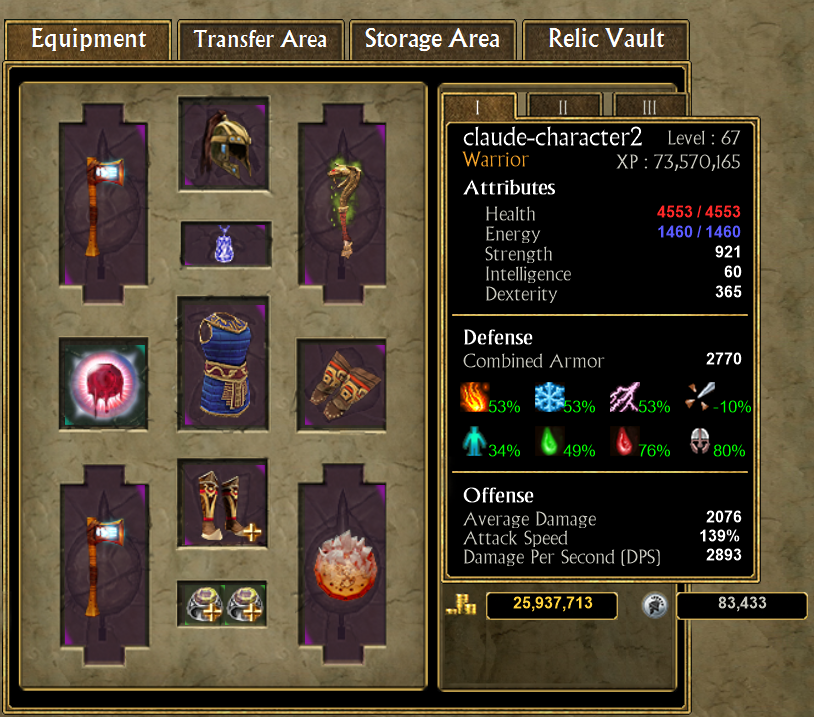
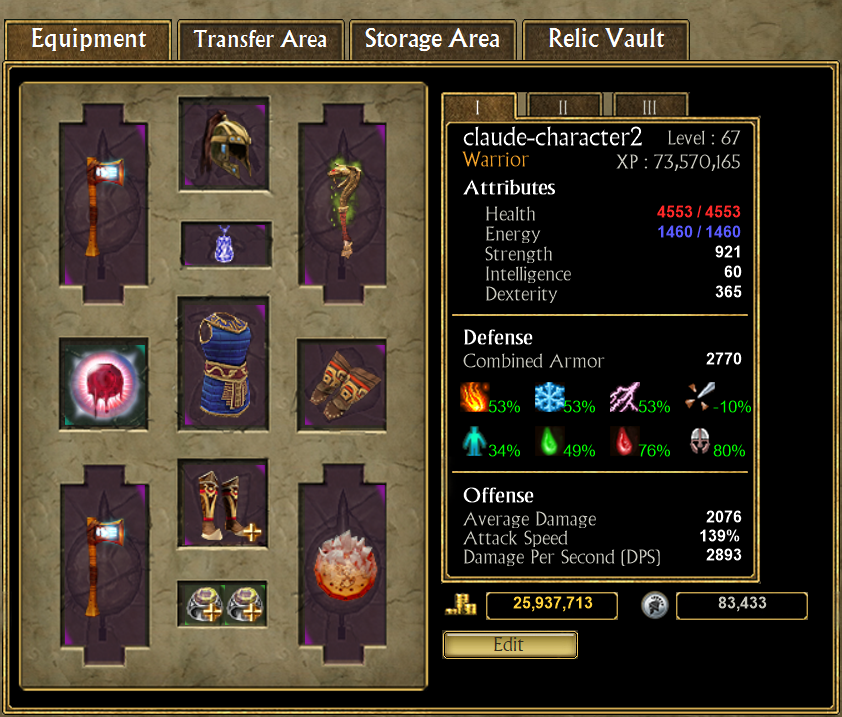
feat(main-window): the equipment field goes around the statistics panel
The black field with its gold border now reaches the right edge of the
stash panel, and the box the background had for the old list of player
values is gone: the background is drawn from its slots part, its field
stretched, and its right border.

diff --git a/src/TQVaultAE.GUI/Components/Panels/StashPanel.cs b/src/TQVaultAE.GUI/Components/Panels/StashPanel.cs
@@ -94,9 +94,20 @@ public partial class StashPanel : VaultPanel, IScalingControl
 
 	/// <summary>
 	/// Design pixels the panel is wider than its bags: the character statistics panel, at the game's size, is wider than
-	/// the box of the equipment background and goes past it on the right.
+	/// the box the equipment background had for the player values, so the equipment field goes further right.
 	/// </summary>
-	private const int NORMAL_PLAYERSTATS_OVERHANG = 96;
+	private const int NORMAL_PLAYERSTATS_OVERHANG = 118;
+
+	/// <summary>
+	/// Columns of the equipment background picture (567 pixels wide): the slots end before <see cref="EquipmentSlotsEnd"/>,
+	/// where the black field between them and the old box of the player values starts; the right border of the field is
+	/// the last <see cref="EquipmentRightBorder"/> columns.
+	/// </summary>
+	private const int EquipmentSlotsEnd = 354;
+	private const int EquipmentRightBorder = 11;
+
+	/// <summary>The equipment background drawn wider, without the old box, at the size it was last asked for.</summary>
+	private Bitmap? wideEquipmentBackground;
 
 	/// <summary>The width of the bags and of the background, without the room of the statistics panel on the right.</summary>
 	private int ContentWidth => this.Width - Convert.ToInt32(NORMAL_PLAYERSTATS_OVERHANG * this.UIService.Scale);
@@ -517,7 +528,13 @@ public partial class StashPanel : VaultPanel, IScalingControl
 	protected new void PaintCallback(object? sender, PaintEventArgs e)
 	{
 		var rect = this.GetBackgroundRect();
-		if (this.background is not null)
+		if (this.currentBag == BagIdConstants.BAGID_EQUIPMENTPANEL && this.equipmentBackground is not null && rect.Width > 0 && rect.Height > 0)
+		{
+			// The equipment field goes to the right edge of the panel, around the statistics panel.
+			var wide = new Rectangle(rect.X, rect.Y, this.Width - (BorderPad * 2), rect.Height);
+			e.Graphics.DrawImage(this.WideEquipmentBackground(wide.Size, rect.Width), wide.Location);
+		}
+		else if (this.background is not null)
 			e.Graphics.DrawImage(this.background, rect);
 		base.PaintCallback(sender, e);
 
@@ -528,6 +545,43 @@ public partial class StashPanel : VaultPanel, IScalingControl
 	#endregion StashPanel Protected Methods
 
 	#region StashPanel Private Methods
+
+	/// <summary>
+	/// The equipment background as wide as the panel: the slots as they are, then the black field with its gold border
+	/// stretched to the right edge, in place of the box the picture has for the old list of player values.
+	/// </summary>
+	/// <param name="size">The size to draw.</param>
+	/// <param name="pictureWidth">The width the whole picture takes when it is not widened.</param>
+	private Bitmap WideEquipmentBackground(Size size, int pictureWidth)
+	{
+		if (this.wideEquipmentBackground is { } made && made.Size == size)
+			return made;
+
+		this.wideEquipmentBackground?.Dispose();
+		var source = this.equipmentBackground!;
+		var wide = new Bitmap(size.Width, size.Height);
+		using (var g = Graphics.FromImage(wide))
+		using (var attributes = new System.Drawing.Imaging.ImageAttributes())
+		{
+			// No blending with what lies outside a part: the field column is stretched alone.
+			attributes.SetWrapMode(System.Drawing.Drawing2D.WrapMode.TileFlipXY);
+			g.InterpolationMode = System.Drawing.Drawing2D.InterpolationMode.HighQualityBicubic;
+			g.PixelOffsetMode = System.Drawing.Drawing2D.PixelOffsetMode.Half;
+
+			float scale = pictureWidth / (float)source.Width;
+			int left = (int)Math.Round(EquipmentSlotsEnd * scale);
+			int right = (int)Math.Round(EquipmentRightBorder * scale);
+			void Part(Rectangle to, int fromX, int fromWidth)
+				=> g.DrawImage(source, to, fromX, 0, fromWidth, source.Height, GraphicsUnit.Pixel, attributes);
+
+			Part(new Rectangle(0, 0, left, size.Height), 0, EquipmentSlotsEnd);
+			Part(new Rectangle(left, 0, size.Width - left - right, size.Height), EquipmentSlotsEnd, 1);
+			Part(new Rectangle(size.Width - right, 0, right, size.Height), source.Width - EquipmentRightBorder, EquipmentRightBorder);
+		}
+
+		this.wideEquipmentBackground = wide;
+		return wide;
+	}
 
 	/// <summary>
 	/// Gets a rectangle scaled by the size of the child vault panels.
